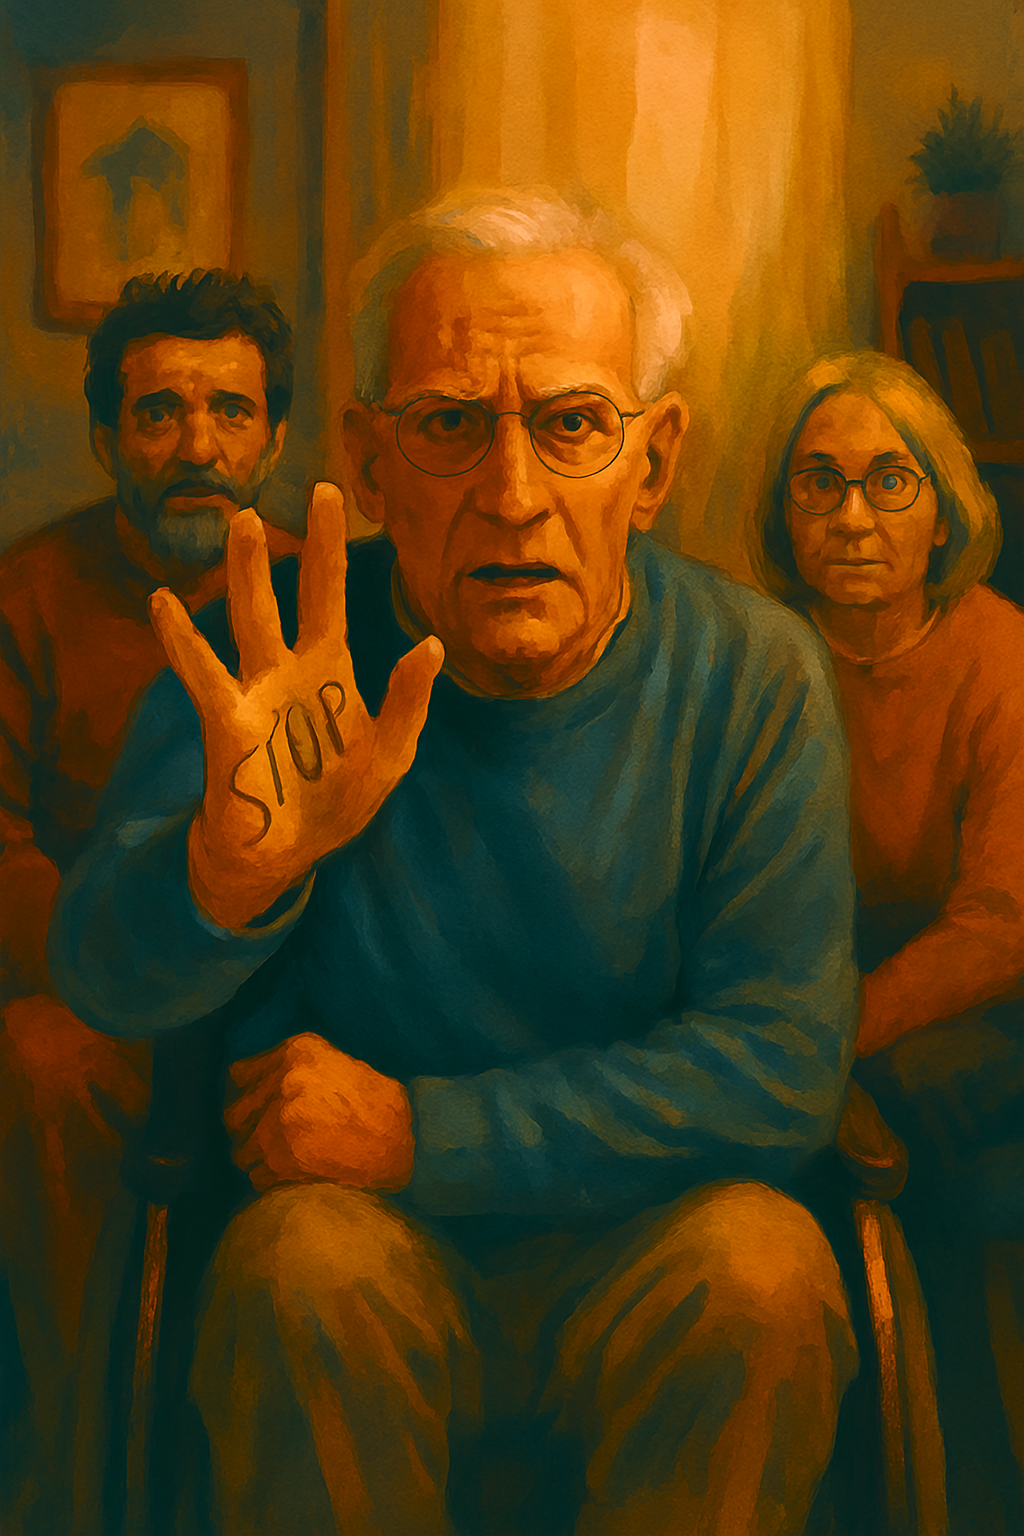
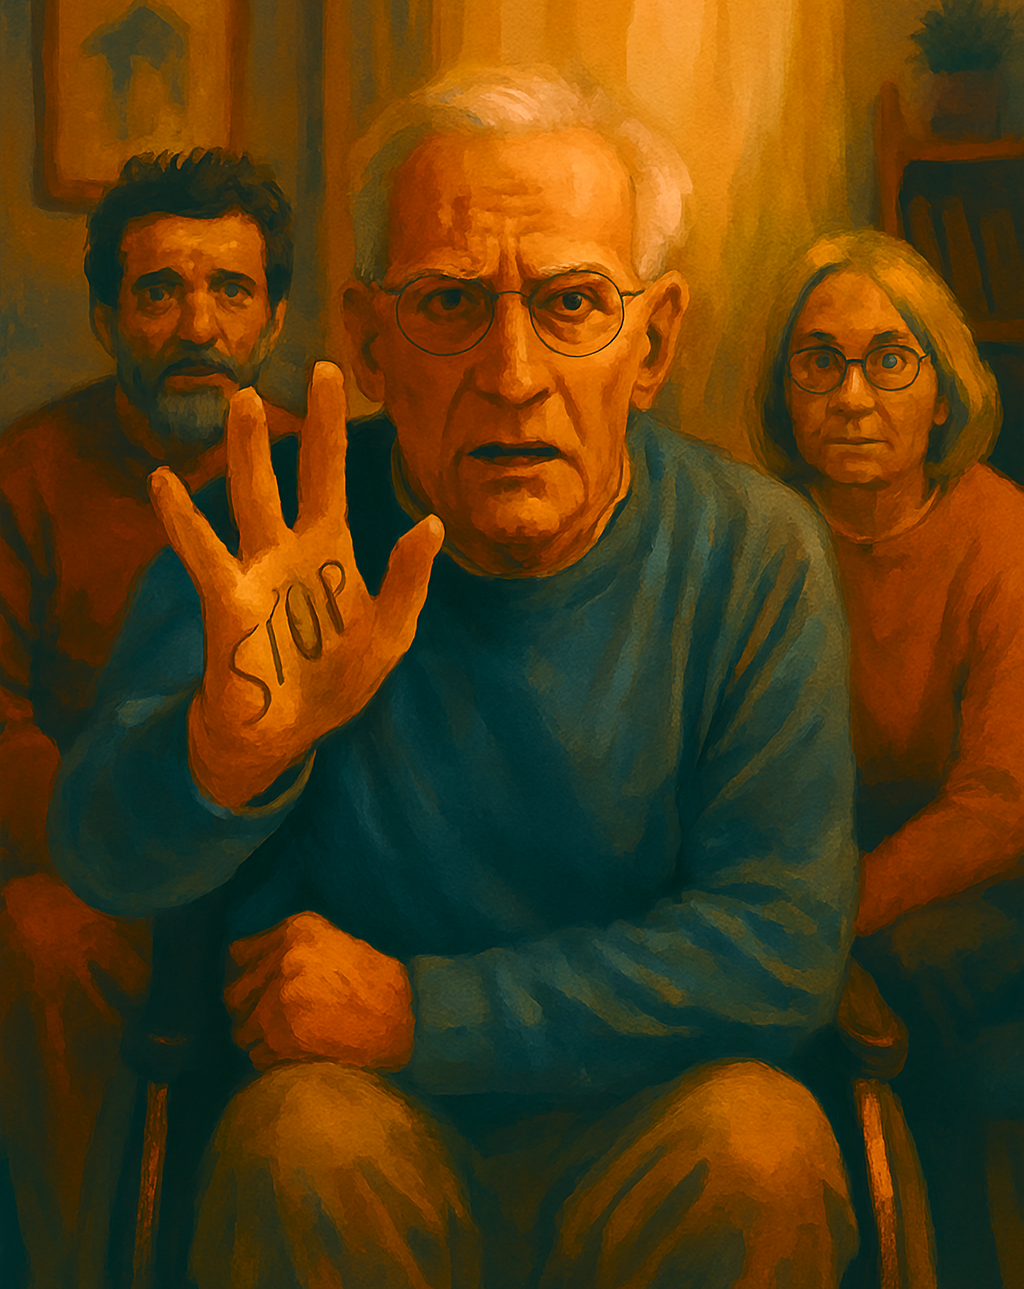
update changes

diff --git a/index.html b/index.html
@@ -194,7 +194,7 @@
                 </div>
                 <div class="col-12 col-md-6 col-xl-3">
                     <div class="card">
-                        <img src="assets/images/" alt="drug abuse" class="card-img-top">
+                        <img src="assets/images/safeguarding_adults.png" alt="drug abuse" class="card-img-top">
                         <div class="card-body">
                             <h3 class="card-title sub-heading-color">Anyone at risk</h3>
                             <p class="card-text">
